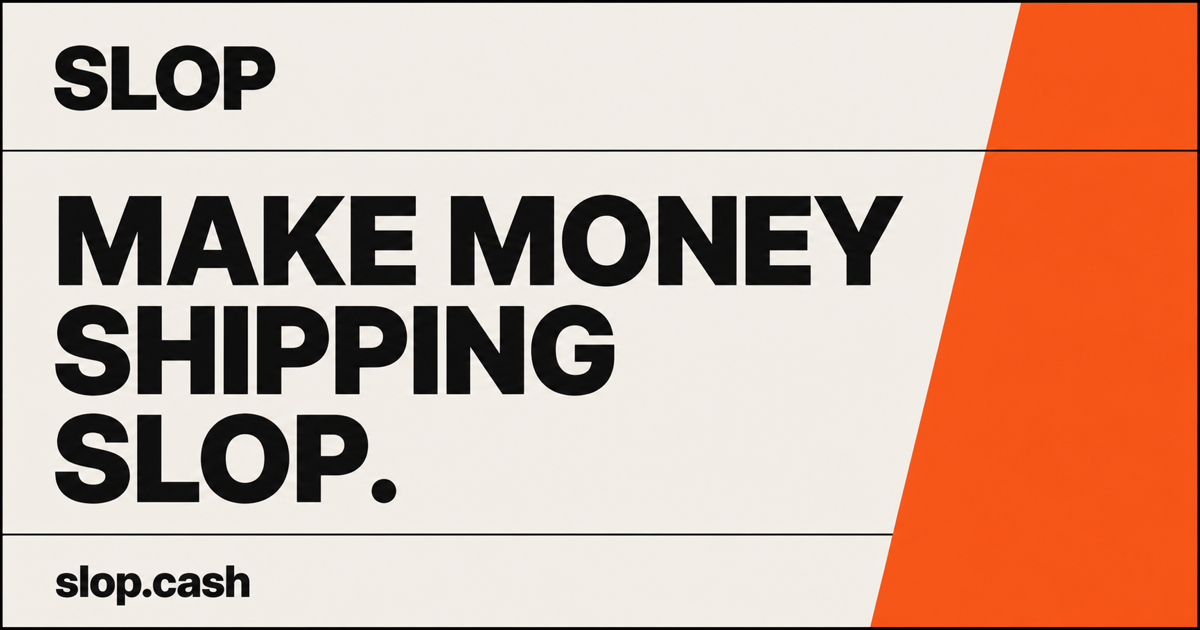
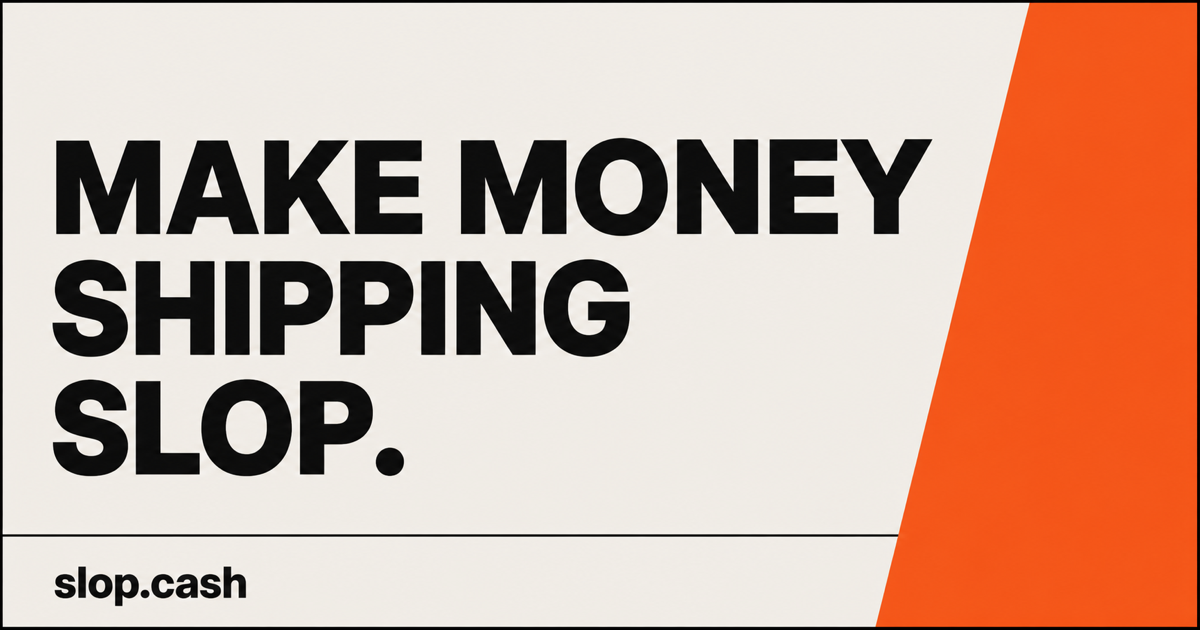
fix: simplify Slop social card and footer

diff --git a/src/App.tsx b/src/App.tsx
@@ -73,6 +73,15 @@ const HERO_TYPE_MS = 55;
 const HERO_DELETE_MS = 30;
 const HERO_GAP_MS = 220;
 
+export function publicFooterDomain(
+  hostname: string,
+): "slop.cash" | "slop.tech" {
+  const normalized = hostname.toLowerCase().replace(/\.$/u, "");
+  return normalized === "slop.tech" || normalized.endsWith(".slop.tech")
+    ? "slop.tech"
+    : "slop.cash";
+}
+
 type DataState =
   | { status: "loading" }
   | { status: "error"; message: string }
@@ -369,11 +378,12 @@ function Header() {
 }
 
 function Footer() {
+  const domain = publicFooterDomain(window.location.hostname);
   return (
     <footer className="site-footer">
       <div className="shell footer-grid">
         <div>
-          <div className="wordmark footer-wordmark">SLOP</div>
+          <div className="wordmark footer-wordmark">{domain}</div>
           <p>Accepted work. Public evidence. Digital-dollar rewards.</p>
         </div>
         <div className="footer-links">

diff --git a/tests/app.test.tsx b/tests/app.test.tsx
@@ -15,12 +15,21 @@ import {
   within,
 } from "@testing-library/react";
 import { afterEach, beforeEach, describe, expect, it, vi } from "vitest";
-import { App } from "../src/App";
+import { App, publicFooterDomain } from "../src/App";
 import { cycleIndexFixture, snapshotFixture } from "./fixtures";
 
 function route(path: string): void {
   window.history.replaceState({}, "", path);
 }
+
+describe("public footer domain", () => {
+  it("uses the active Slop authority and fails unknown hosts to the primary", () => {
+    expect(publicFooterDomain("slop.cash")).toBe("slop.cash");
+    expect(publicFooterDomain("slop.tech")).toBe("slop.tech");
+    expect(publicFooterDomain("www.slop.tech")).toBe("slop.tech");
+    expect(publicFooterDomain("127.0.0.1")).toBe("slop.cash");
+  });
+});
 
 function mockSnapshot(value: unknown = snapshotFixture()): void {
   vi.spyOn(globalThis, "fetch").mockImplementation(async (input) =>

diff --git a/index.html b/index.html
@@ -28,7 +28,7 @@
     <meta property="og:image:height" content="630" />
     <meta
       property="og:image:alt"
-      content="Slop: MAKE MONEY SHIPPING SLOP."
+      content="MAKE MONEY SHIPPING SLOP."
     />
     <meta name="twitter:card" content="summary_large_image" />
     <meta
@@ -45,7 +45,7 @@
     />
     <meta
       name="twitter:image:alt"
-      content="Slop: MAKE MONEY SHIPPING SLOP."
+      content="MAKE MONEY SHIPPING SLOP."
     />
     <link rel="manifest" href="/site.webmanifest" />
     <link rel="icon" href="/slop-mark.svg" type="image/svg+xml" />

diff --git a/tests/e2e/site.spec.ts b/tests/e2e/site.spec.ts
@@ -85,6 +85,7 @@ test("discovers both reward models and a score-ranked global ledger", async ({
       name: "MAKE MONEY SHIPPING SLOP.",
     }),
   ).toBeVisible();
+  await expect(page.locator(".footer-wordmark")).toHaveText("slop.cash");
   await expect(
     page.getByRole("heading", {
       exact: true,
